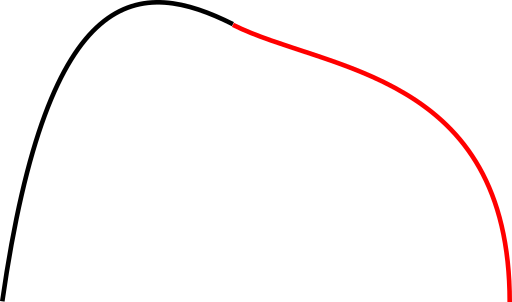
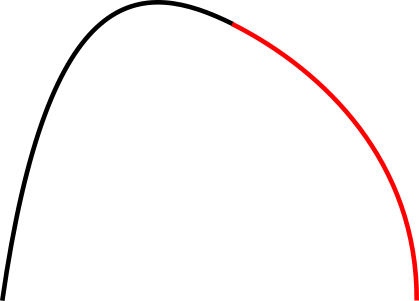
Fix drawing in 11a (fixes #69)

Changed region(s): [[0.0, 0.0, 0.7757, 1.0], [0.7757, 0.299, 1.0, 1.0]]

diff --git a/CG/2015-Nachklausur/2015-Nachklausur.tex b/CG/2015-Nachklausur/2015-Nachklausur.tex
@@ -532,7 +532,7 @@ Das sieht dann wie folgt aus:
 \begin{figure}[h]
     \centering
     \includegraphics*[width=0.5\linewidth, keepaspectratio]{11a.png}
-    \caption{Ergebnisspline. TODO: Ich glaube $c_2$ ist falsch.}
+    \caption{Ergebnisspline.}
     \label{fig:situation-11a}
 \end{figure}
 \clearpage
